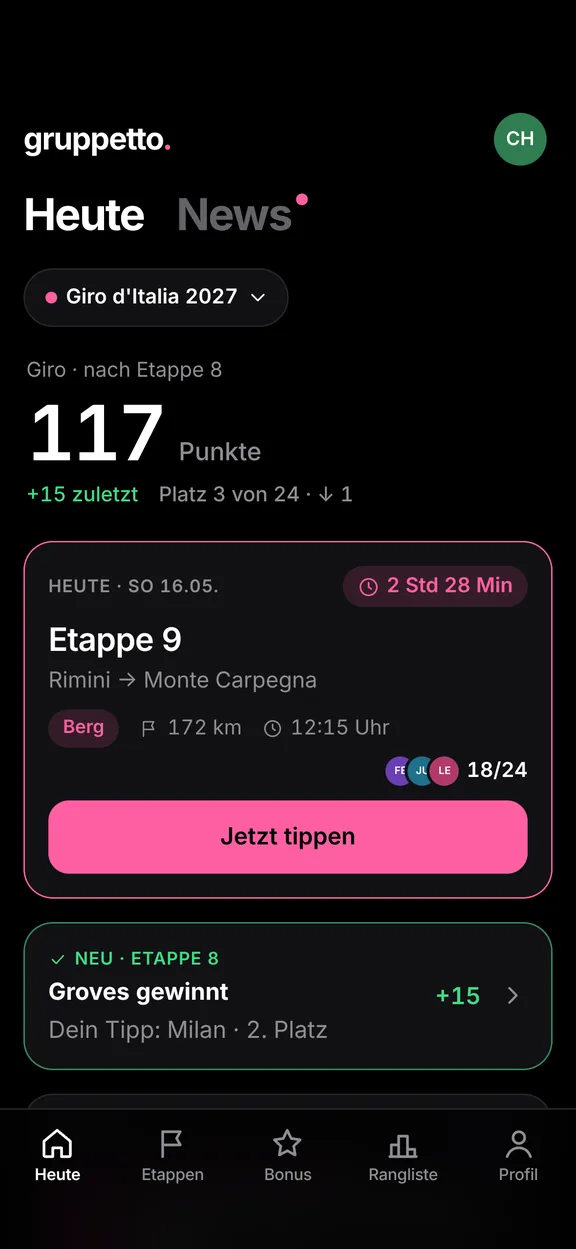
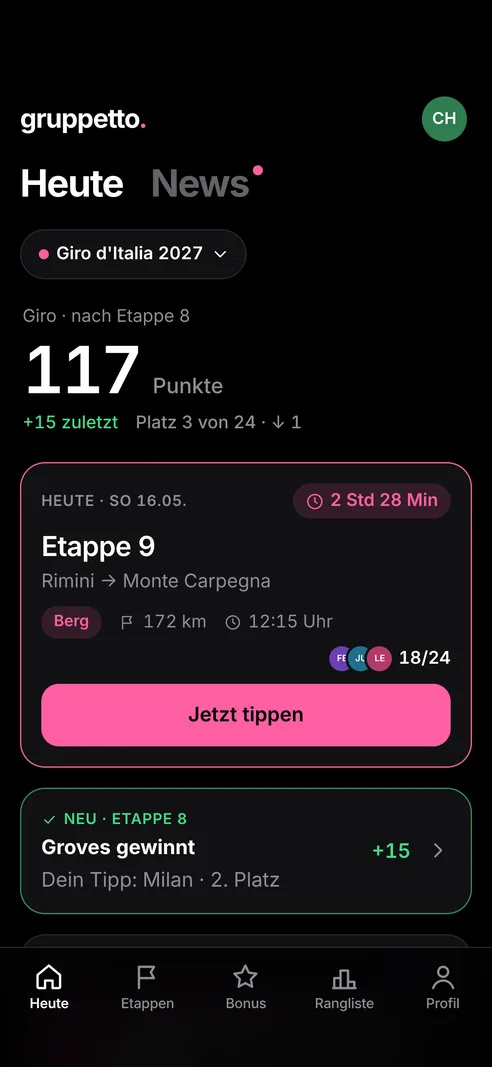
Abfahrt render for gruppetto, add Sattelfest to the carousel
gruppetto now leads with a rendered still of the Abfahrt: the Stelvio
switchbacks at sunset with the peloton in a hairpin, fans and chalets,
rendered at 3x from the game's own WebGPU engine. Sattelfest joins as
the fourth app with its home screen, the delivery brief and the driving
controls, plus icon, copy in both languages and structured data.

Claude-Session: https://claude.ai/code/session_014J5gUJpWDmJRuDuVEtAzUX

diff --git a/src/styles.css b/src/styles.css
@@ -378,9 +378,11 @@ html.no-intro .hero__body { animation: none; }
 .app--gruppetto { --wa: rgba(255, 95, 162, .24); --wb: rgba(255, 150, 196, .1); --btn: #ff5fa2; --btn-tx: #1c0010; }
 .app--rosenherz { --wa: rgba(165, 123, 255, .26); --wb: rgba(255, 120, 184, .12); --btn: #c4a6ff; --btn-tx: #190a38; }
 .app--neontd { --wa: rgba(34, 229, 255, .2); --wb: rgba(255, 61, 242, .12); --btn: #22e5ff; --btn-tx: #00161c; }
+.app--sattelfest { --wa: rgba(255, 182, 45, .2); --wb: rgba(255, 128, 40, .1); --btn: #ffb62d; --btn-tx: #1a1100; }
 [data-theme="light"] .app--gruppetto { --wa: rgba(255, 95, 162, .17); --wb: rgba(255, 95, 162, .07); --btn: #d61f72; --btn-tx: #fff; }
 [data-theme="light"] .app--rosenherz { --wa: rgba(145, 96, 240, .17); --wb: rgba(255, 110, 175, .08); --btn: #6d45d8; --btn-tx: #fff; }
 [data-theme="light"] .app--neontd { --wa: rgba(0, 170, 210, .16); --wb: rgba(230, 40, 220, .07); --btn: #0a7f9c; --btn-tx: #fff; }
+[data-theme="light"] .app--sattelfest { --wa: rgba(240, 160, 20, .18); --wb: rgba(240, 110, 20, .07); --btn: #f5a623; --btn-tx: #1a1100; }
 
 .apps { --ax: 50%; --ay: 30%; position: relative; margin-top: clamp(4px, 1.5vh, 16px); }
 .apps__aura { position: absolute; inset: -8% 0 0; overflow: hidden; pointer-events: none; }

diff --git a/README.md b/README.md
@@ -51,8 +51,9 @@ Repository settings → Pages: source "GitHub Actions", custom domain `talfahrt.
 | CNAME | `www`      | `t-eilzeitgott.github.io`        |
 | CNAME | `rosenherz`| `t-eilzeitgott.github.io`        |
 | CNAME | `td`       | `t-eilzeitgott.github.io`        |
+| CNAME | `sattelfest` | `t-eilzeitgott.github.io`      |
 
-`gruppetto` already points the same way. Each app repository gets its own custom domain in its Pages settings: `rosenherz.talfahrt.dev` for `lea-1`, `td.talfahrt.dev` for `td-0`. GitHub adds the `CNAME` file to branch-based deployments itself.
+`gruppetto` already points the same way. Each app repository gets its own custom domain in its Pages settings: `rosenherz.talfahrt.dev` for `lea-1`, `td.talfahrt.dev` for `td-0`, `sattelfest.talfahrt.dev` for `sattelfest`. GitHub adds the `CNAME` file to branch-based deployments itself.
 
 ## Search and AI discovery
 
